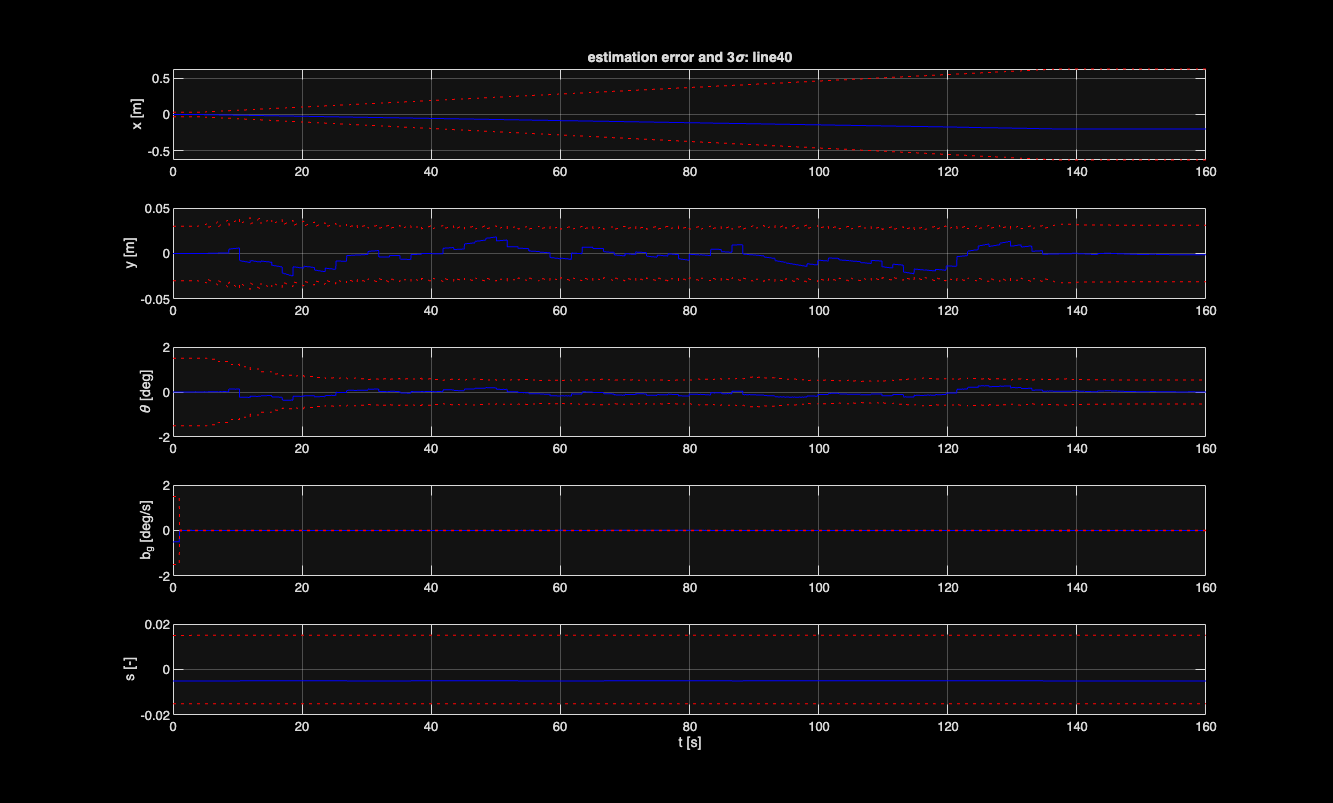
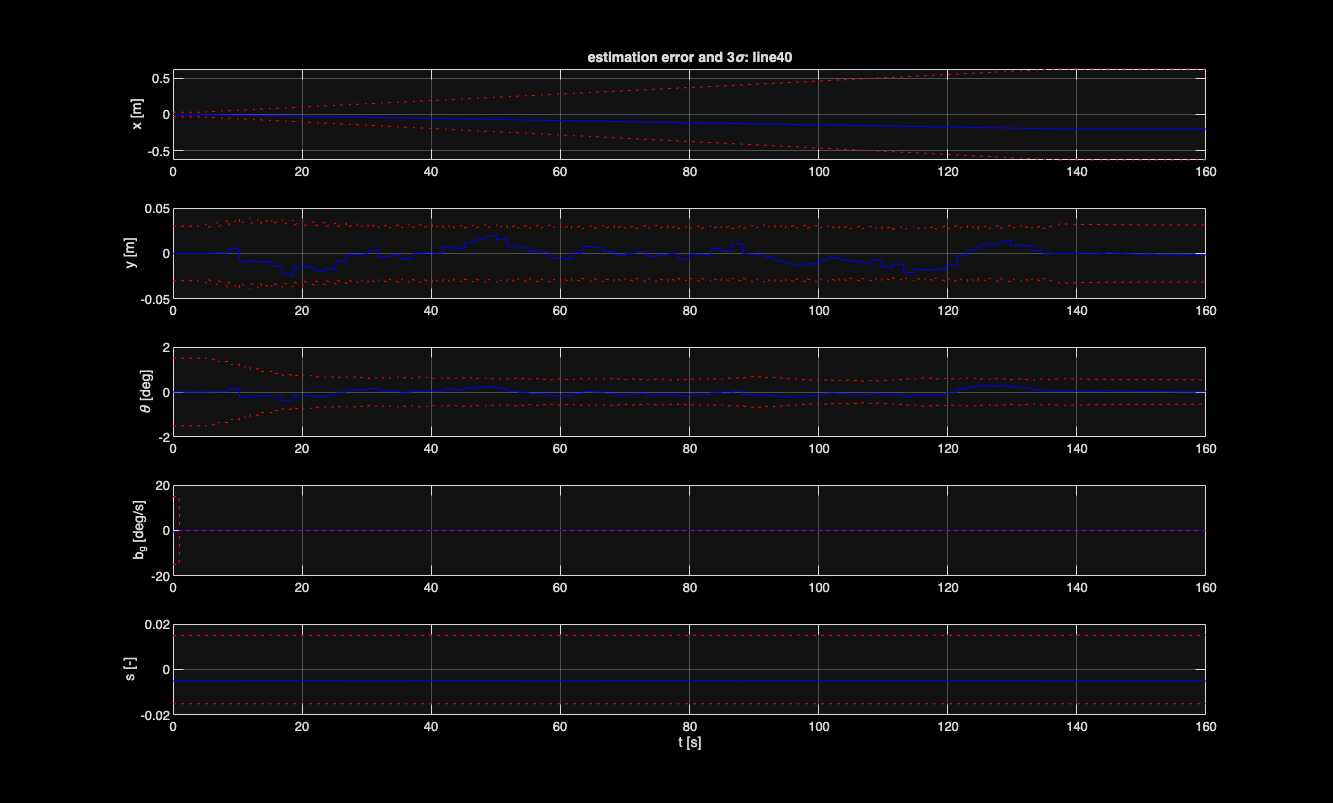
updated due to errors in ekf matlab

diff --git a/Matlab/ekf_design/core/ekf_params.m b/Matlab/ekf_design/core/ekf_params.m
@@ -20,10 +20,10 @@ function p = ekf_params()
 %   See also EKF_PARAM_CAST, EKF_INIT.
 
 % ------------------------------------------------------------- odometry (§10.2)
-p.odo_m_per_cnt   = 6.3638e-5;   % 200  m      pi*0.0726/3584, measured 8 Oct (M)
-p.odo_scale_l     = 1.0;         % 201  -      [MEASURE] UMBmark
-p.odo_scale_r     = 1.0;         % 202  -      [MEASURE] UMBmark
-p.odo_wheelbase   = 0.22325;     % 203  m      geometric; effective [MEASURE] UMBmark
+p.odo_m_per_cnt   = 6.35444e-5;  % 200  m      straight-line scale 2026-11-18 (M); was 6.3638e-5
+p.odo_scale_l     = 1.00084;     % 201  -      D5000 drift 2026-11-21 (M, D-72)
+p.odo_scale_r     = 0.99916;     % 202  -      idem
+p.odo_wheelbase   = 0.21926;     % 203  m      effective, W360 rotation test 2026-11-19 (M, D-55); geometric 0.22325
 
 % ------------------------------------------------------------- IMU (§10.2, §7.11)
 p.imu_timeout     = 0.020;       % 403  s
@@ -49,7 +49,7 @@ p.ekf_gyro_sf     = 0.003;       % 504  -           gyro scale-factor uncertaint
 p.ekf_q_bg        = 1.0e-10;     % 505  (rad/s)^2/s [MEASURE] Allan variance
 p.ekf_q_s         = 1.0e-9;      % 506  1/s
 p.ekf_q_th_enc    = 1.0e-4;      % 507  rad^2/m     encoder-heading mode
-p.ekf_zupt_floor  = 3.5e-5;      % 508  rad/s
+p.ekf_zupt_floor  = 2.0e-4;      % 508  rad/s  vehicle 2026-11-20 (D-69), [MEASURE] Allan (H7); was 3.5e-5
 p.ekf_zupt_T      = 1.0;         % 509  s
 p.ekf_still_s     = 0.2;         % 510  s
 p.ekf_gate1       = 9.0;         % 511  -           chi2_1 99.7 %
@@ -60,7 +60,7 @@ p.ekf_edge_skip   = 0.25;        % 515  m
 p.ekf_bg_conv     = 3.5e-4;      % 516  rad/s       0.02 deg/s
 p.ekf_p0_xy       = 0.01;        % 517  m (sigma)
 p.ekf_p0_th       = 0.0087;      % 518  rad (sigma)  0.5 deg
-p.ekf_p0_bg       = 0.0087;      % 519  rad/s (sigma) 0.5 deg/s
+p.ekf_p0_bg       = 0.087;       % 519  rad/s (sigma) 5 deg/s (D-66); was 0.5 deg/s
 p.ekf_p0_s        = 0.005;       % 520  - (sigma)
 
 % constants from the text of §7.17 (no parameter ID)
